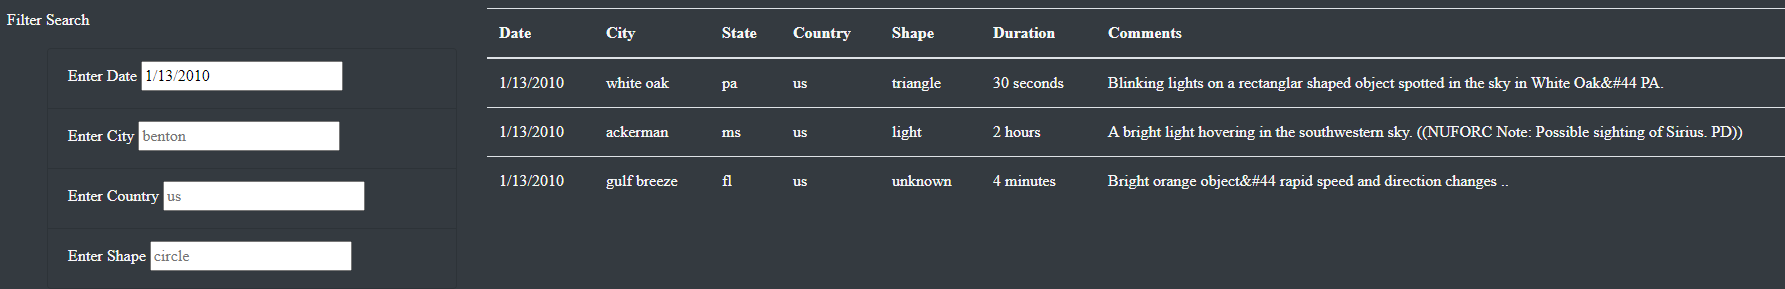
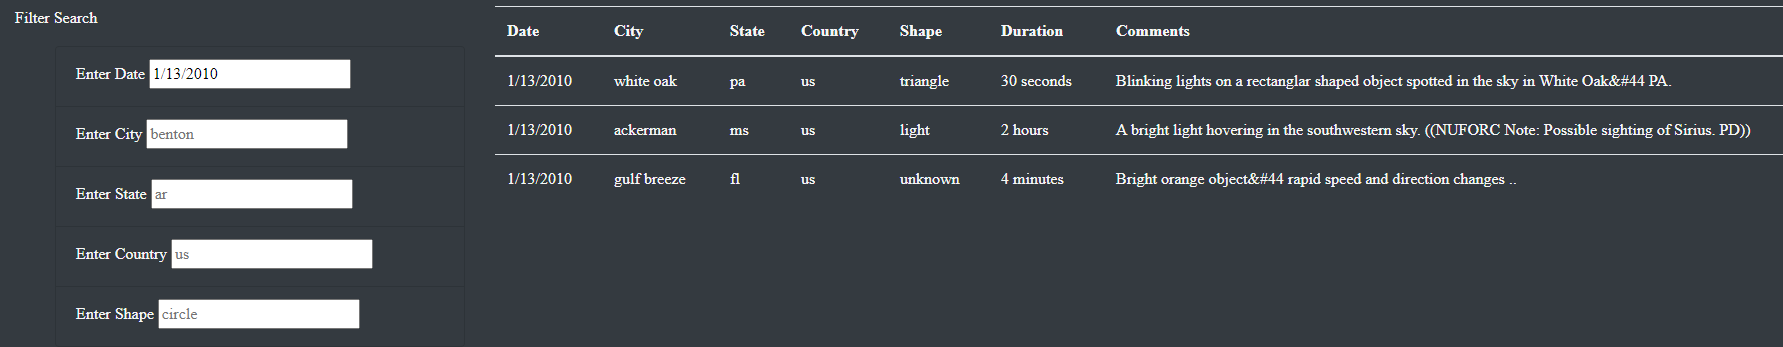
Updated Deliverables

diff --git a/index.html b/index.html
@@ -75,6 +75,10 @@
                                 <input type="text" placeholder="benton" id="city" />
                             </li>
                             <li class="list-group-item bg-dark">
+                                <label for="state">Enter State</label>
+                                <input type="text" placeholder="ar" id="state" />
+                            </li>
+                            <li class="list-group-item bg-dark">
                                 <label for="country">Enter Country</label>
                                 <input type="text" placeholder="us" id="country" />
                             </li>

diff --git a/README.md b/README.md
@@ -22,4 +22,4 @@ If the user wants to reset the filters and create brand-new filtering criterias,
 ## Summary
 Although this webpage provides organized and detailed information of UFO sightings, a drawback of this webpage is that the data is limited to the North American region with the big majority in the U.S. Therefore, the insights that can be concluded from this data are limited due to the lack of diversity in countries.
 
-The first recoommendation to improve this website is to use the filter of state instead of country. This is because the majority of entries are from the U.S. and there are only 2 entries for Canada. Another recommendation is to add a pop-up error message that warns when there is no data that matches the selected criteria so that the user can be aware of when the combination of filters used cannot filter the correct data. 
+The first recommendation to improve this website is to include a line that indicates the number of results given that matches the criteria. This will provide the user with a readily available summary of the results without having to spend time counting by eye. Another recommendation is to add a pop-up error message that warns when there is no data that matches the selected criteria so that the user can be aware of when the combination of filters used cannot filter the correct data. 
